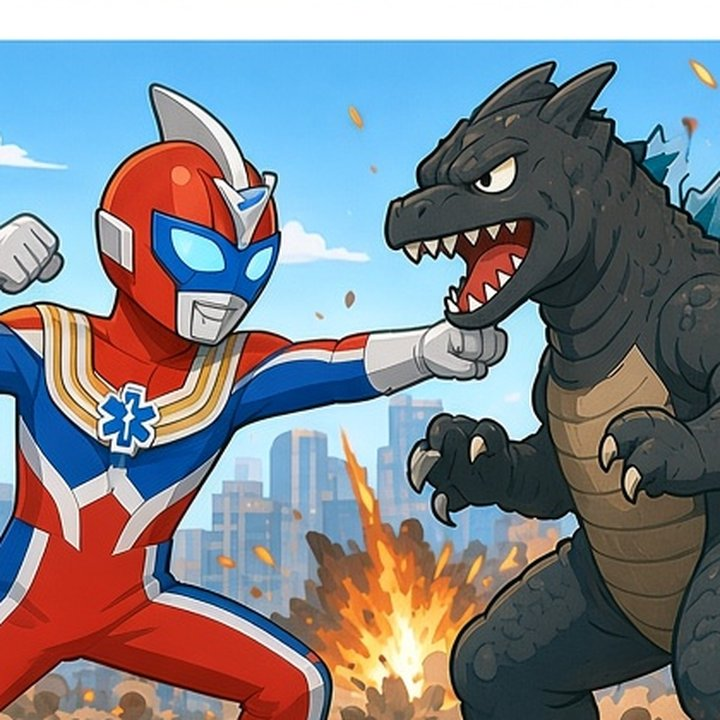
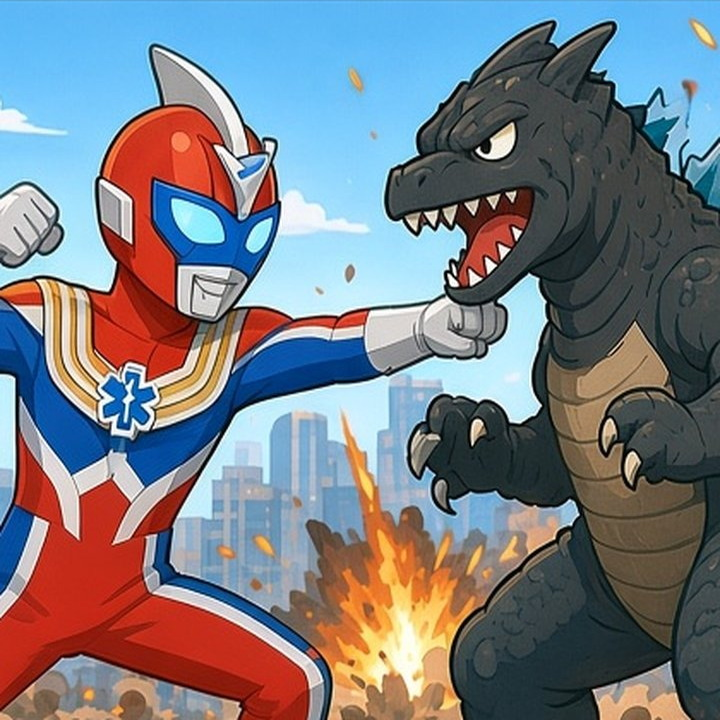
fix: clear Unit 4 art edges and show syllable lines
Remove the cut-off title from the wicked card and the white strip on the Unit 4 cover. Units 1–4 word cards now show the English headword, a short reminder, and the existing syllable spelling.

diff --git a/test/card-syllables.test.js b/test/card-syllables.test.js
@@ -1,0 +1,82 @@
+const test = require('node:test');
+const assert = require('node:assert/strict');
+const fs = require('node:fs');
+const path = require('node:path');
+
+const root = path.join(__dirname, '..');
+const UNITS = ['unit1', 'unit2', 'unit3', 'unit4'];
+
+function cards(unit) {
+  const html = fs.readFileSync(path.join(root, unit, 'index.html'), 'utf8');
+  const match = html.match(/const CARDS = (\[.*?\]);/s);
+  assert.ok(match, unit + ' defines CARDS');
+  return { html, cards: JSON.parse(match[1]) };
+}
+
+function samePhrase(en, syllables) {
+  const words = en.split(/\s+/);
+  const pieces = syllables.split(/\s+/);
+  if (words.length !== pieces.length) return false;
+  return words.every((word, i) => {
+    const piece = pieces[i];
+    if (word === 'a' || word === 'an' || word === 'the') return piece === word;
+    return piece.replace(/-/g, '') === word.replace(/-/g, '');
+  });
+}
+
+test('unit word cards show the headword, a syllable hint, and the syllable line', () => {
+  for (const unit of UNITS) {
+    const { html, cards: list } = cards(unit);
+    assert.match(html, /unit\.css\?v=9/);
+    assert.match(html, /class="headword"/);
+    assert.match(html, /class="syl-hint" lang="zh-Hant">下方是分音節寫法</);
+    assert.match(html, /class="syllables is-break"/);
+    assert.ok(list.length > 0, unit);
+    for (const card of list) {
+      assert.equal(typeof card.en, 'string');
+      assert.equal(typeof card.syllables, 'string');
+      assert.ok(samePhrase(card.en, card.syllables), unit + ' ' + card.en + ' / ' + card.syllables);
+    }
+  }
+  const quake = cards('unit2').cards.find((card) => card.en === 'an earthquake');
+  assert.equal(quake.syllables, 'an earth-quake');
+  const drought = cards('unit2').cards.find((card) => card.en === 'a drought');
+  assert.equal(drought.syllables, 'a drought');
+});
+
+test('wicked card art has no title band and the unit 4 cover has no white top strip', () => {
+  const { execFileSync } = require('node:child_process');
+  const script = `
+from PIL import Image
+import os
+root = ${JSON.stringify(root)}
+cover = Image.open(os.path.join(root, 'covers', 'unit4.jpg')).convert('RGB')
+w, h = cover.size
+px = cover.load()
+white = sum(1 for x in range(w) if px[x, 0][0] > 245 and px[x, 0][1] > 245 and px[x, 0][2] > 245)
+if white / w > 0.2:
+    raise SystemExit('cover white ' + str(white))
+import hashlib
+def digest(path):
+    return hashlib.sha256(open(path, 'rb').read()).hexdigest()
+cover_path = os.path.join(root, 'covers', 'unit4.jpg')
+home_path = os.path.join(root, 'home-eduhome', 'covers', 'unit4.jpg')
+if digest(cover_path) != digest(home_path):
+    raise SystemExit('home cover differs')
+art = Image.open(os.path.join(root, 'unit4', 'thumb_13.png')).convert('RGB')
+aw, ah = art.size
+ap = art.load()
+pale = n = 0
+for y in range(int(ah * 0.08)):
+    for x in range(0, aw, 2):
+        r, g, b = ap[x, y]
+        n += 1
+        if r > 230 and g > 220 and b > 210:
+            pale += 1
+if pale / n > 0.2:
+    raise SystemExit('wicked pale title ' + str(pale / n))
+print('ok')
+`;
+  const out = execFileSync('python3', ['-c', script], { encoding: 'utf8' });
+  assert.match(out, /ok/);
+});

diff --git a/index.html b/index.html
@@ -8,7 +8,7 @@
   <link rel="preconnect" href="https://fonts.googleapis.com" />
   <link rel="preconnect" href="https://fonts.gstatic.com" crossorigin />
   <link href="https://fonts.googleapis.com/css2?family=Fredoka:wght@500;600;700&family=Nunito:wght@400;500;600;700&family=Noto+Sans+TC:wght@400;500;700&display=swap" rel="stylesheet" />
-  <link rel="stylesheet" href="assets/site.css?v=37" />
+  <link rel="stylesheet" href="assets/site.css?v=38" />
   <link rel="stylesheet" href="assets/profile.css?v=2" />
 </head>
 <body>
@@ -117,7 +117,7 @@
               </div>
             </article>
             <article class="pack-card tone-sunny reveal reveal-delay-4" aria-roledescription="slide" aria-label="Unit 4 of 5">
-              <div class="pack-cover"><img src="covers/unit4.jpg" alt="Unit 4 cover: Film magic" width="720" height="720" loading="lazy" /></div>
+              <div class="pack-cover"><img src="covers/unit4.jpg?v=1" alt="Unit 4 cover: Film magic" width="720" height="720" loading="lazy" /></div>
               <div class="pack-body">
                 <h3>Unit 4 · Film magic</h3>
                 <p>Genres and cinema words. action film, comedy, fantasy, musical.</p>
@@ -163,7 +163,7 @@
         <p class="how-lead">Open any pack. Each card has audio, a picture you can enlarge, and bilingual examples.</p>
         <div class="how-grid">
           <article class="how-card tone-sky reveal reveal-delay-1">
-            <div class="how-art"><img src="covers/unit4.jpg" alt="Film magic pack illustration" width="400" height="400" loading="lazy" /></div>
+            <div class="how-art"><img src="covers/unit4.jpg?v=1" alt="Film magic pack illustration" width="400" height="400" loading="lazy" /></div>
             <div class="how-body">
               <h3>Hear it</h3>
               <p>Tap Play on a card. Practise the word aloud with the syllable breaks.</p>
@@ -299,7 +299,7 @@
   <script src="practice/data/unit1.js"></script>
   <script src="practice/data/unit2.js"></script>
   <script src="practice/data/unit3.js"></script>
-  <script src="practice/data/unit4.js"></script>
+  <script src="practice/data/unit4.js?v=1"></script>
   <script src="practice/data/dictation3.js"></script>
   <script src="practice/data/registry.js"></script>
   <script src="practice/mastery.js"></script>

diff --git a/test/home-nav.test.js b/test/home-nav.test.js
@@ -45,7 +45,8 @@ test('packs are a swipe carousel, not a grid', () => {
   assert.match(cover, /object-fit:\s*cover/);
   assert.doesNotMatch(cover, /#000|black/);
   assert.match(html, /covers\/unit2\.jpg\?v=3/);
-  assert.equal(html.includes('site.css?v=37'), true);
+  assert.match(html, /covers\/unit4\.jpg\?v=1/);
+  assert.equal(html.includes('site.css?v=38'), true);
   assert.doesNotMatch(html, /<span class="tag">Unit \d/);
   assert.match(html, /<span class="tag nums">10 words<\/span>/);
   assert.match(css, /\.how-card\.tone-sunny \.how-art,\s*\.how-card\.tone-pink \.how-art \{[^}]*aspect-ratio:\s*1/);
@@ -65,10 +66,10 @@ test('packs are a swipe carousel, not a grid', () => {
   assert.match(css, /\.pack-card \{[^}]*flex:\s*0 0 min\(26rem, 70%\)/);
   assert.match(css, /aspect-ratio:\s*1/);
   assert.doesNotMatch(cover, /max-height:\s*18rem/);
-  const hear = css.slice(css.indexOf('.how-card.tone-sky .how-art img {'), css.indexOf('.how-card.tone-sky .how-art img {') + 280);
-  assert.match(hear, /height:\s*107%/);
-  assert.match(hear, /object-fit:\s*cover/);
-  assert.match(hear, /object-position:\s*center bottom/);
+  assert.equal(css.includes('height: 107%'), false);
+  const howArt = css.slice(css.indexOf('.how-card .how-art img {'), css.indexOf('.how-card.tone-sunny .how-art'));
+  assert.match(howArt, /object-fit:\s*cover/);
+  assert.match(howArt, /object-position:\s*center/);
   assert.match(css, /\.nav-jump[\s\S]*border:\s*0/);
   assert.match(css, /\.nav-jump[\s\S]*box-shadow:\s*none/);
 });
@@ -117,6 +118,14 @@ for folder in ('covers', 'home-eduhome/covers'):
                     dark += 1
             if dark / len(coords) > 0.45:
                 raise SystemExit(folder + '/' + name + ' ' + edge + ' ' + str(dark))
+        if name == 'unit4.jpg':
+            white = 0
+            for x, y in edges['top']:
+                r, g, b = px[x, y]
+                if r > 245 and g > 245 and b > 245:
+                    white += 1
+            if white / len(edges['top']) > 0.2:
+                raise SystemExit(folder + '/' + name + ' white top ' + str(white))
 print('ok')
 `;
   const out = execFileSync('python3', ['-c', script], { encoding: 'utf8' });

diff --git a/unit4/index.html b/unit4/index.html
@@ -8,7 +8,7 @@
 <link rel="preconnect" href="https://fonts.googleapis.com"/>
 <link rel="preconnect" href="https://fonts.gstatic.com" crossorigin/>
 <link href="https://fonts.googleapis.com/css2?family=Fredoka:wght@500;600;700&family=Nunito:wght@400;500;600;700&family=Noto+Sans+TC:wght@400;500;700&display=swap" rel="stylesheet"/>
-<link rel="stylesheet" href="../assets/unit.css?v=8"/>
+<link rel="stylesheet" href="../assets/unit.css?v=9"/>
 </head>
 <body class="theme-unit4">
 <header class="unit-header">
@@ -41,7 +41,7 @@ let activeCard = null;
 function openLightbox(card, article) {
   if (window.LastPlace) LastPlace.save(card);
   activeCard = { card, article };
-  lbImg.src = card.img + "?v=3";
+  lbImg.src = card.img + "?v=4";
   lbImg.alt = card.en;
   lightbox.classList.add('open');
   document.body.style.overflow = 'hidden';
@@ -94,7 +94,7 @@ CARDS.forEach(card => {
     const wrap = document.createElement('div');
     wrap.className = 'illust' + ({'thumb_09.png':1,'thumb_14.png':1}[card.img] ? ' cutout' : '');
     const img = document.createElement('img');
-    img.src = card.img + "?v=3"; img.alt = card.en; img.loading = 'lazy'; img.decoding = 'async';
+    img.src = card.img + "?v=4"; img.alt = card.en; img.loading = 'lazy'; img.decoding = 'async';
     wrap.appendChild(img);
     wrap.setAttribute('role', 'button');
     wrap.setAttribute('tabindex', '0');
@@ -110,7 +110,9 @@ CARDS.forEach(card => {
   main.className = 'main';
   main.innerHTML =
     '<span class="num">' + card.n + '</span>' +
-    '<p class="syllables">' + card.syllables + '</p>' +
+    '<p class="headword">' + card.en + '</p>' +
+    '<p class="syl-hint" lang="zh-Hant">下方是分音節寫法</p>' +
+    '<p class="syllables is-break">' + card.syllables + '</p>' +
     '<p class="zh">' + card.zh + '（' + card.pos + '）</p>';
   top.appendChild(main);
   article.appendChild(top);

diff --git a/practice/data/unit4.js b/practice/data/unit4.js
@@ -18,7 +18,7 @@ window.PRACTICE_UNIT4 = {
     { key: "unit4:obedient", form: "adjective", en: "obedient", zh: "聽話的", audio: "../unit4/audio/audio_10.mp3", img: "../unit4/thumb_10.jpg" },
     { key: "unit4:selfish", form: "adjective", en: "selfish", zh: "自私的", audio: "../unit4/audio/audio_11.mp3", img: "../unit4/thumb_11.jpg" },
     { key: "unit4:timid", form: "adjective", en: "timid", zh: "膽小的", audio: "../unit4/audio/audio_12.mp3", img: "../unit4/thumb_12.png" },
-    { key: "unit4:wicked", form: "adjective", en: "wicked", zh: "邪惡的", audio: "../unit4/audio/audio_13.mp3", img: "../unit4/thumb_13.png" },
+    { key: "unit4:wicked", form: "adjective", en: "wicked", zh: "邪惡的", audio: "../unit4/audio/audio_13.mp3", img: "../unit4/thumb_13.png?v=4" },
     { key: "unit4:wise", form: "adjective", en: "wise", zh: "明智的／有智慧的", audio: "../unit4/audio/audio_14.mp3", img: "../unit4/thumb_14.png" },
   ],
 
@@ -324,7 +324,7 @@ window.PRACTICE_UNIT4 = {
     { id: "u4-k10", wordKey: "unit4:obedient", en: "obedient", zh: "聽話的", img: "../unit4/thumb_10.jpg" },
     { id: "u4-k11", wordKey: "unit4:selfish", en: "selfish", zh: "自私的", img: "../unit4/thumb_11.jpg" },
     { id: "u4-k12", wordKey: "unit4:timid", en: "timid", zh: "膽小的", img: "../unit4/thumb_12.png" },
-    { id: "u4-k13", wordKey: "unit4:wicked", en: "wicked", zh: "邪惡的", img: "../unit4/thumb_13.png" },
+    { id: "u4-k13", wordKey: "unit4:wicked", en: "wicked", zh: "邪惡的", img: "../unit4/thumb_13.png?v=4" },
     { id: "u4-k14", wordKey: "unit4:wise", en: "wise", zh: "明智的／有智慧的", img: "../unit4/thumb_14.png" },
   ]
 };

diff --git a/unit1/index.html b/unit1/index.html
@@ -8,7 +8,7 @@
 <link rel="preconnect" href="https://fonts.googleapis.com"/>
 <link rel="preconnect" href="https://fonts.gstatic.com" crossorigin/>
 <link href="https://fonts.googleapis.com/css2?family=Fredoka:wght@500;600;700&family=Nunito:wght@400;500;600;700&family=Noto+Sans+TC:wght@400;500;700&display=swap" rel="stylesheet"/>
-<link rel="stylesheet" href="../assets/unit.css?v=8"/>
+<link rel="stylesheet" href="../assets/unit.css?v=9"/>
 </head>
 <body class="theme-unit1">
 <header class="unit-header">
@@ -110,7 +110,9 @@ CARDS.forEach(card => {
   main.className = 'main';
   main.innerHTML =
     '<span class="num">' + card.n + '</span>' +
-    '<p class="syllables">' + card.syllables + '</p>' +
+    '<p class="headword">' + card.en + '</p>' +
+    '<p class="syl-hint" lang="zh-Hant">下方是分音節寫法</p>' +
+    '<p class="syllables is-break">' + card.syllables + '</p>' +
     '<p class="zh">' + card.zh + '（' + card.pos + '）</p>';
   top.appendChild(main);
   article.appendChild(top);

diff --git a/unit2/index.html b/unit2/index.html
@@ -8,7 +8,7 @@
 <link rel="preconnect" href="https://fonts.googleapis.com"/>
 <link rel="preconnect" href="https://fonts.gstatic.com" crossorigin/>
 <link href="https://fonts.googleapis.com/css2?family=Fredoka:wght@500;600;700&family=Nunito:wght@400;500;600;700&family=Noto+Sans+TC:wght@400;500;700&display=swap" rel="stylesheet"/>
-<link rel="stylesheet" href="../assets/unit.css?v=8"/>
+<link rel="stylesheet" href="../assets/unit.css?v=9"/>
 </head>
 <body class="theme-unit2">
 <header class="unit-header">
@@ -110,7 +110,9 @@ CARDS.forEach(card => {
   main.className = 'main';
   main.innerHTML =
     '<span class="num">' + card.n + '</span>' +
-    '<p class="syllables">' + card.syllables + '</p>' +
+    '<p class="headword">' + card.en + '</p>' +
+    '<p class="syl-hint" lang="zh-Hant">下方是分音節寫法</p>' +
+    '<p class="syllables is-break">' + card.syllables + '</p>' +
     '<p class="zh">' + card.zh + '（' + card.pos + '）</p>';
   top.appendChild(main);
   article.appendChild(top);

diff --git a/unit3/index.html b/unit3/index.html
@@ -8,7 +8,7 @@
 <link rel="preconnect" href="https://fonts.googleapis.com"/>
 <link rel="preconnect" href="https://fonts.gstatic.com" crossorigin/>
 <link href="https://fonts.googleapis.com/css2?family=Fredoka:wght@500;600;700&family=Nunito:wght@400;500;600;700&family=Noto+Sans+TC:wght@400;500;700&display=swap" rel="stylesheet"/>
-<link rel="stylesheet" href="../assets/unit.css?v=8"/>
+<link rel="stylesheet" href="../assets/unit.css?v=9"/>
 </head>
 <body class="theme-unit3">
 <header class="unit-header">
@@ -110,7 +110,9 @@ CARDS.forEach(card => {
   main.className = 'main';
   main.innerHTML =
     '<span class="num">' + card.n + '</span>' +
-    '<p class="syllables">' + card.syllables + '</p>' +
+    '<p class="headword">' + card.en + '</p>' +
+    '<p class="syl-hint" lang="zh-Hant">下方是分音節寫法</p>' +
+    '<p class="syllables is-break">' + card.syllables + '</p>' +
     '<p class="zh">' + card.zh + '（' + card.pos + '）</p>';
   top.appendChild(main);
   article.appendChild(top);

diff --git a/assets/unit.css b/assets/unit.css
@@ -238,6 +238,25 @@ button { font: inherit; cursor: pointer; }
   opacity: 0.85;
   margin-bottom: 0.25rem;
 }
+.headword {
+  font-family: var(--font-display);
+  font-weight: 600;
+  font-size: clamp(1.25rem, 1.05rem + 0.8vw, 1.55rem);
+  line-height: 1.2;
+  letter-spacing: -0.02em;
+  margin: 0;
+  word-break: normal;
+  overflow-wrap: normal;
+  hyphens: manual;
+}
+.syl-hint {
+  margin: 0.4rem 0 0.08rem;
+  font-family: "Noto Sans TC", "PingFang TC", "Microsoft JhengHei", var(--font-text);
+  font-weight: 700;
+  font-size: 0.82rem;
+  line-height: 1.35;
+  color: var(--navy);
+}
 .syllables {
   font-family: var(--font-display);
   font-weight: 600;
@@ -248,6 +267,13 @@ button { font: inherit; cursor: pointer; }
   word-break: normal;
   overflow-wrap: normal;
   hyphens: manual;
+}
+.syllables.is-break {
+  font-size: clamp(1.05rem, 0.95rem + 0.4vw, 1.2rem);
+  font-weight: 600;
+  line-height: 1.3;
+  letter-spacing: 0;
+  margin: 0 0 0.4rem;
 }
 .zh {
   margin: 0;

diff --git a/assets/site.css b/assets/site.css
@@ -596,17 +596,6 @@ button { font: inherit; color: inherit; background: none; border: 0; padding: 0;
   object-fit: cover;
   object-position: center;
 }
-/* Hear it art has a white strip along the top. Shift it up so the scene fills the square. */
-.how-card.tone-sky .how-art img {
-  position: absolute;
-  left: 0;
-  bottom: 0;
-  width: 100%;
-  height: 107%;
-  max-width: none;
-  object-fit: cover;
-  object-position: center bottom;
-}
 .how-card .how-body {
   background: var(--cream);
   border-radius: calc(var(--radius) - 6px);

diff --git a/badges.html b/badges.html
@@ -7,7 +7,7 @@
   <link rel="preconnect" href="https://fonts.googleapis.com" />
   <link rel="preconnect" href="https://fonts.gstatic.com" crossorigin />
   <link href="https://fonts.googleapis.com/css2?family=Fredoka:wght@500;600;700&family=Nunito:wght@400;500;600;700&family=Noto+Sans+TC:wght@500;700&display=swap" rel="stylesheet" />
-  <link rel="stylesheet" href="assets/site.css?v=37" />
+  <link rel="stylesheet" href="assets/site.css?v=38" />
   <link rel="stylesheet" href="assets/profile.css?v=2" />
 </head>
 <body>

diff --git a/dictation3/index.html b/dictation3/index.html
@@ -8,7 +8,7 @@
 <link rel="preconnect" href="https://fonts.googleapis.com"/>
 <link rel="preconnect" href="https://fonts.gstatic.com" crossorigin/>
 <link href="https://fonts.googleapis.com/css2?family=Fredoka:wght@500;600;700&family=Nunito:wght@400;500;600;700&family=Noto+Sans+TC:wght@400;500;700&display=swap" rel="stylesheet"/>
-<link rel="stylesheet" href="../assets/unit.css?v=8"/>
+<link rel="stylesheet" href="../assets/unit.css?v=9"/>
 </head>
 <body class="theme-dictation3">
 <header class="unit-header">
